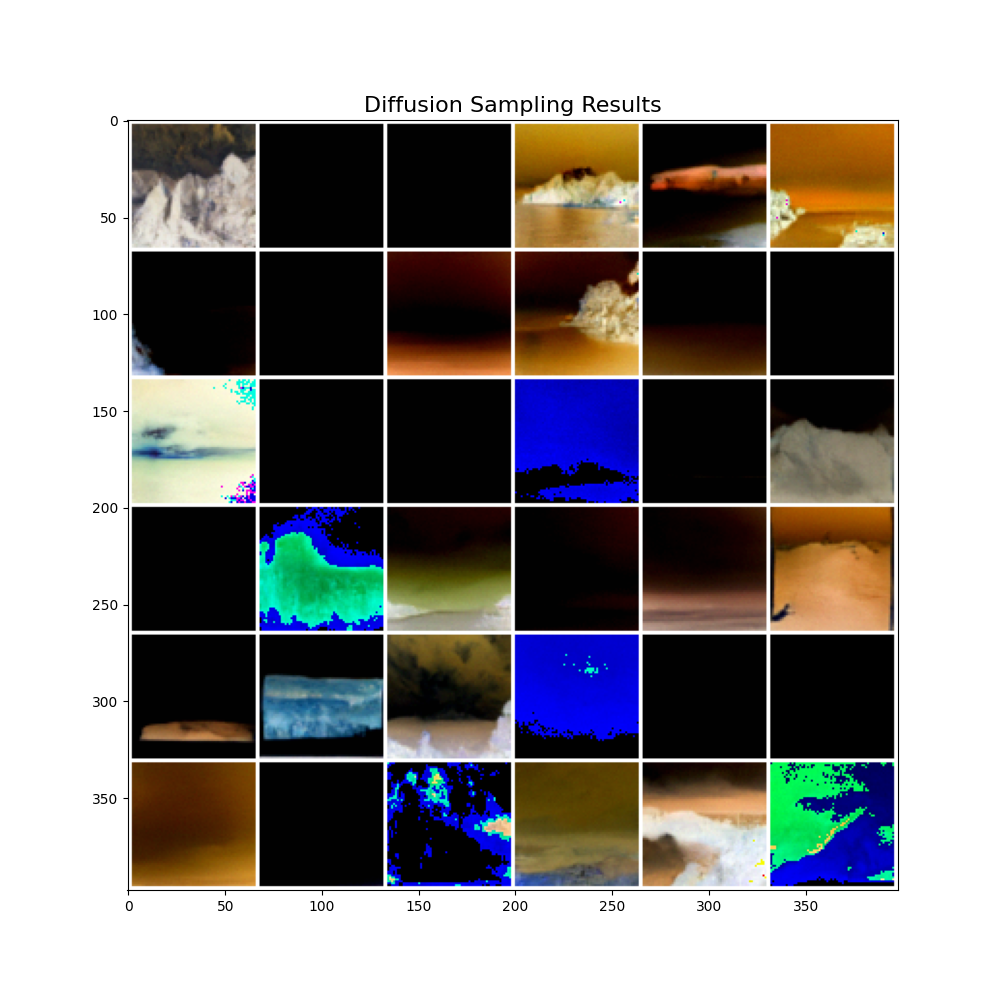
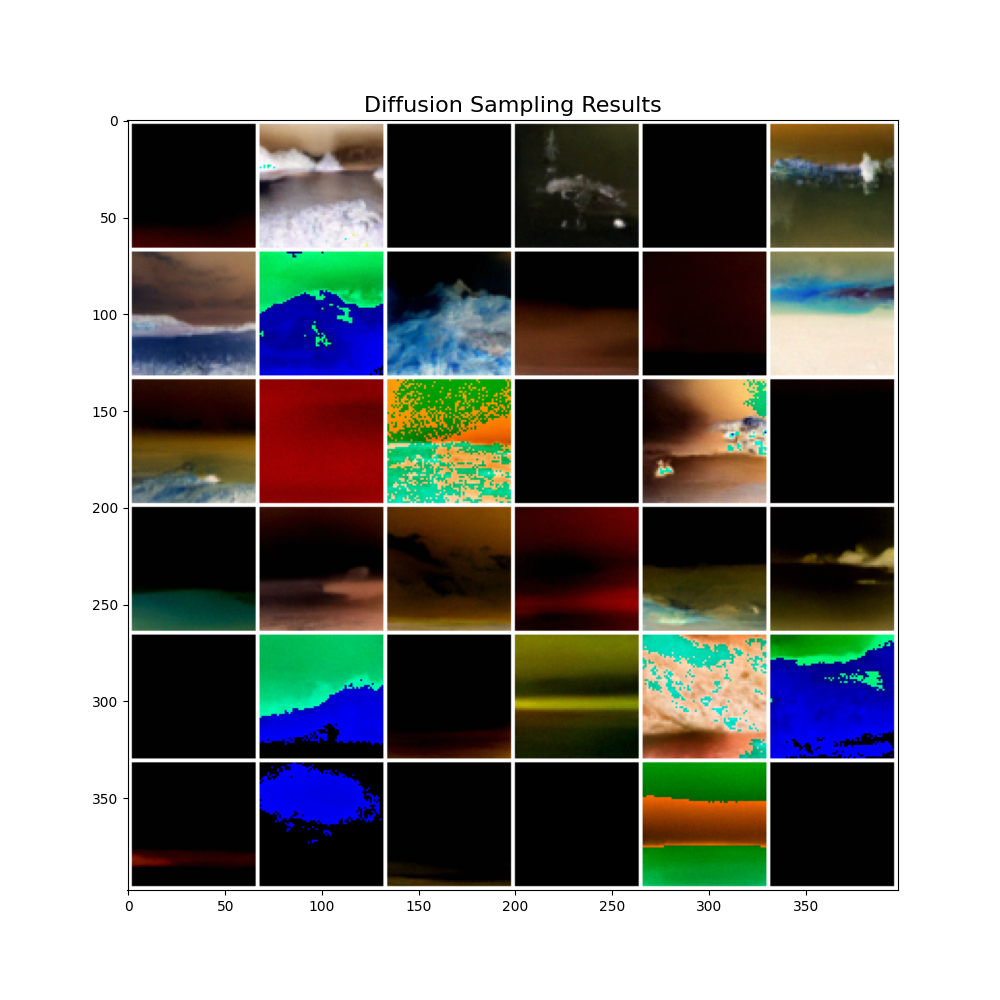
mistake: model==landscape & sampling data==FFHQ

diff --git a/ddpm.py b/ddpm.py
@@ -95,7 +95,7 @@ def train(args):
             pbar.set_postfix(MSE=loss.item())
             logger.add_scalar("MSE", loss.item(), global_step=epoch * l + i)
 
-        sampled_images = diffusion.sample(model, n=4)
+        sampled_images = diffusion.sample(model, n=16)
         save_images(sampled_images, os.path.join("results", args.run_name, f"{epoch}.jpg"), nrow=2)
         torch.save(model.state_dict(), os.path.join("models", args.run_name, f"ckpt.pt"))
 
@@ -104,14 +104,14 @@ def launch():
     import argparse
     parser = argparse.ArgumentParser()
     args = parser.parse_args()
-    args.run_name = "DDPM_Uncondtional"
-    args.epochs = 500
+    args.run_name = "DDPM_Uncondtional_FFHQ"
+    args.epochs = 300
     args.batch_size = 16
     args.image_size = 64
-    args.dataset_path = r"/home/work/DDPM_mksong/Diffusion-Models-pytorch-main/datasets/landscape"
+    args.dataset_path = r"/home/work/DDPM_mksong/Diffusion-Models-pytorch-main/datasets/FFHQ"
     args.device = "cuda"
     args.lr = 3e-4
-#    train(args)
+    train(args)
 
 if __name__ == '__main__':
     launch()
@@ -147,7 +147,7 @@ def sample_images(dataset_path, output_path, grid_size=8):
 if __name__ == '__main__':
     launch()
     
-    dataset_path = '/home/work/DDPM_mksong/Diffusion-Models-pytorch-main/datasets/landscape'
+    dataset_path = '/home/work/DDPM_mksong/Diffusion-Models-pytorch-main/datasets/FFHQ'
     output_path = '/home/work/DDPM_mksong/Diffusion-Models-pytorch-main'
     sample_images(dataset_path, output_path, grid_size=8)
     
@@ -156,7 +156,7 @@ if __name__ == '__main__':
     ckpt = torch.load("/home/work/DDPM_mksong/Diffusion-Models-pytorch-main/models/DDPM_Uncondtional/ckpt.pt")
     model.load_state_dict(ckpt)
     diffusion = Diffusion(img_size=64, device=device)
-    x = diffusion.sample(model, 36)
+    x = diffusion.sample(model, 16)   # 16장 샘플링
     print(x.shape)
 
     x_grid = make_grid(x, nrow=6, pad_value=1)
